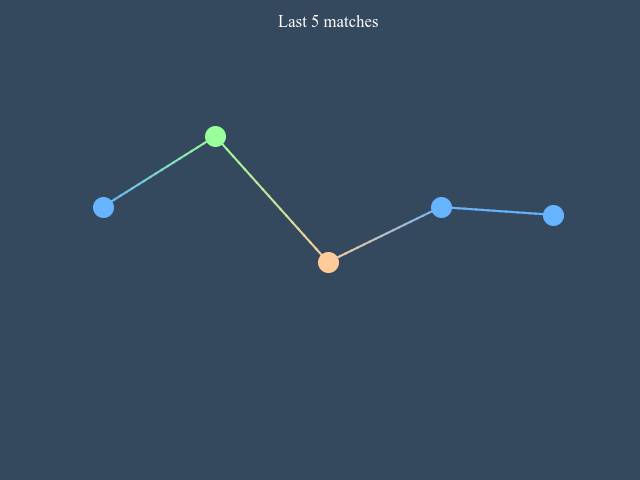
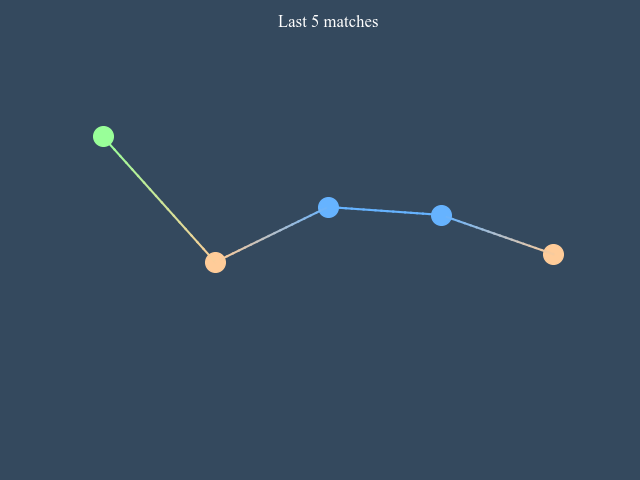
Updated the table after playoff match

diff --git a/s4.html b/s4.html
@@ -46,7 +46,7 @@
 
   <h1>Sarveen Cup - Season 4</h1>
   
-  	<h2>Playoffs</h2>
+    <h2>Grand Final</h2>
 	<table class="rwd-table">
 	  <tr>
 		<th>Name</th>
@@ -54,12 +54,12 @@
 		<th>Total Pts</th>
 	  </tr>
 	  <tr>
-		<td data-th="Name">Hossein Yousefi</td>
+		<td data-th="Name">Ali Zarghami</td>
 		<td data-th="Time Left">00:00:00</td>
 		<td data-th="Total Pts">0</td>
 	  </tr>
 	  <tr>
-		<td data-th="Name">Abolfazl Bahari</td>
+		<td data-th="Name">Melika Boustan</td>
 		<td data-th="Time Left">00:00:00</td>
 		<td data-th="Total Pts">0</td>
 	  </tr>
@@ -69,9 +69,39 @@
 		<td data-th="Total Pts">0</td>
 	  </tr>
 	  <tr>
-		<td data-th="Name">Mehdi Beheshtara</td>
+		<td data-th="Name">Abolfazl Bahari</td>
 		<td data-th="Time Left">00:00:00</td>
 		<td data-th="Total Pts">0</td>
+	  </tr>
+	</table>
+	
+	
+  	<h2>Playoffs</h2>
+	<table class="rwd-table">
+	  <tr>
+		<th>Name</th>
+		<th>Time Left</th>
+		<th>Total Pts</th>
+	  </tr>
+	  <tr>
+		<td data-th="Name">Saeed Mohammadi Ara</td>
+		<td data-th="Time Left">00:04:43</td>
+		<td data-th="Total Pts">16</td>
+	  </tr>
+	  <tr>
+		<td data-th="Name">Abolfazl Bahari</td>
+		<td data-th="Time Left">00:04:11</td>
+		<td data-th="Total Pts">15</td>
+	  </tr>
+	  <tr>
+		<td data-th="Name">Hossein Yousefi</td>
+		<td data-th="Time Left">00:04:59</td>
+		<td data-th="Total Pts">13</td>
+	  </tr>
+	  <tr>
+		<td data-th="Name">Mahdi Beheshtara</td>
+		<td data-th="Time Left">00:05:03</td>
+		<td data-th="Total Pts">6</td>
 	  </tr>
 	</table> 
   

diff --git a/profiles/hosseinyousefi.html b/profiles/hosseinyousefi.html
@@ -53,9 +53,9 @@
 	  <p><b>Rank</b>: 5</p>
 	  <p><b>Ranking Points</b>: 141.75</p>
       <p><b>Seasons Participated</b>: 4</p>
-	  <p><b>Matches Played</b>: 16</p>
-	  <p><b>Average Game points</b>: 13.44</p>
-	  <p><b>Average Time</b>: 0:09:10</p>
+	  <p><b>Matches Played</b>: 17</p>
+	  <p><b>Average Game points</b>: 13.41</p>
+	  <p><b>Average Time</b>: 0:09:13</p>
 	  </div>
 	  <div class="column">
 	  <img src="../charts/standings/Hossein Y.png" alt="Standing distribution" >

diff --git a/profiles/abizi.html b/profiles/abizi.html
@@ -54,9 +54,9 @@
 	  <p><b>Rank</b>: 1</p>
 	  <p><b>Ranking Points</b>: 289</p>
       <p><b>Seasons Participated</b>: 4</p>
-	  <p><b>Matches Played</b>: 19</p>
-	  <p><b>Average Game points</b>: 14.21</p>
-	  <p><b>Average Time</b>: 0:10:12</p>
+	  <p><b>Matches Played</b>: 20</p>
+	  <p><b>Average Game points</b>: 14.25</p>
+	  <p><b>Average Time</b>: 0:10:14</p>
 	  </div>
 	  <div class="column">
 	  <img src="../charts/standings/Abizi.png" alt="Standing distribution" >

diff --git a/profiles/mahdibeheshtara.html b/profiles/mahdibeheshtara.html
@@ -53,9 +53,9 @@
 	  <p><b>Rank</b>: 13</p>
 	  <p><b>Ranking Points</b>: 48</p>
       <p><b>Seasons Participated</b>: 3</p>
-	  <p><b>Matches Played</b>: 12</p>
-	  <p><b>Average Game points</b>: 11.17</p>
-	  <p><b>Average Time</b>: 0:12:04</p>
+	  <p><b>Matches Played</b>: 13</p>
+	  <p><b>Average Game points</b>: 10.77</p>
+	  <p><b>Average Time</b>: 0:11:54</p>
 	  </div>
 	  <div class="column">
 	  <img src="../charts/standings/Mahdi.png" alt="Standing distribution" >

diff --git a/profiles/saeedmohammadiara.html b/profiles/saeedmohammadiara.html
@@ -53,9 +53,9 @@
 	  <p><b>Rank</b>: 9</p>
 	  <p><b>Ranking Points</b>: 99</p>
       <p><b>Seasons Participated</b>: 2</p>
-	  <p><b>Matches Played</b>: 9</p>
-	  <p><b>Average Game points</b>: 12.67</p>
-	  <p><b>Average Time</b>: 0:10:02</p>
+	  <p><b>Matches Played</b>: 10</p>
+	  <p><b>Average Game points</b>: 13</p>
+	  <p><b>Average Time</b>: 0:10:04</p>
 	  </div>
 	  <div class="column">
 	  <img src="../charts/standings/Saeed.png" alt="Standing distribution" >
